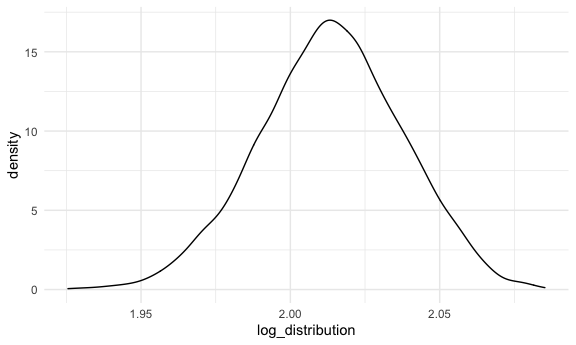
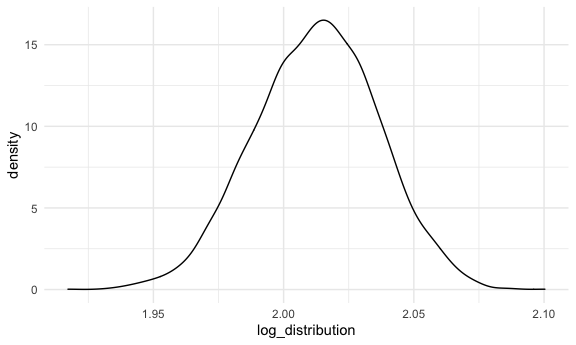
minor adjustments

diff --git a/p8105_hw6_tnn2113.md b/p8105_hw6_tnn2113.md
@@ -122,8 +122,11 @@ bootstrap_df =
   bootstrap(n = 5000)
 ```
 
-Find and plot the distributions of \(\hat{r}^2\) and
-\(log(\hat\beta_0 * \hat\beta_1)\)
+Find and plot the distributions of
+![\\hat{r}^2](https://latex.codecogs.com/png.latex?%5Chat%7Br%7D%5E2
+"\\hat{r}^2") and ![log(\\hat\\beta\_0 \*
+\\hat\\beta\_1)](https://latex.codecogs.com/png.latex?log%28%5Chat%5Cbeta_0%20%2A%20%5Chat%5Cbeta_1%29
+"log(\\hat\\beta_0 * \\hat\\beta_1)")
 
 ``` r
 sample_df = 
@@ -136,7 +139,8 @@ sample_df =
   select(-strap, -models)
 ```
 
-\(\hat{r}^2\) plot
+![\\hat{r}^2](https://latex.codecogs.com/png.latex?%5Chat%7Br%7D%5E2
+"\\hat{r}^2") plot
 
 ``` r
 r_df = 
@@ -150,8 +154,9 @@ r_df %>%
 
 <img src="p8105_hw6_tnn2113_files/figure-gfm/unnamed-chunk-10-1.png" width="90%" />
 
-Based on the plot above, the distribution of \(\hat{r}^2\) is relatively
-normal
+Based on the plot above, the distribution of
+![\\hat{r}^2](https://latex.codecogs.com/png.latex?%5Chat%7Br%7D%5E2
+"\\hat{r}^2") is relatively normal
 
 Identify the 2.5% and 97.5% quantiles
 
@@ -159,18 +164,21 @@ Identify the 2.5% and 97.5% quantiles
 unname(quantile(pull(r_df, r.squared), 0.025))
 ```
 
-    ## [1] 0.8937077
+    ## [1] 0.894194
 
 ``` r
 unname(quantile(pull(r_df, r.squared), 0.975))
 ```
 
-    ## [1] 0.9278163
+    ## [1] 0.9271572
 
 Based on the code chunk above, the 95% confidence interval for
-\(\hat{r}^2\) is (0.893591, 0.927841)
+![\\hat{r}^2](https://latex.codecogs.com/png.latex?%5Chat%7Br%7D%5E2
+"\\hat{r}^2") is (0.893591, 0.927841)
 
-\(log(\hat\beta_0 * \hat\beta_1)\) plot
+![log(\\hat\\beta\_0 \*
+\\hat\\beta\_1)](https://latex.codecogs.com/png.latex?log%28%5Chat%5Cbeta_0%20%2A%20%5Chat%5Cbeta_1%29
+"log(\\hat\\beta_0 * \\hat\\beta_1)") plot
 
 ``` r
 log_df = 
@@ -190,8 +198,9 @@ log_df %>%
 
 <img src="p8105_hw6_tnn2113_files/figure-gfm/unnamed-chunk-12-1.png" width="90%" />
 
-Based on the plot above, the distribution of
-\(log(\hat\beta_0 * \hat\beta_1)\)is also normal.
+Based on the plot above, the distribution of ![log(\\hat\\beta\_0 \*
+\\hat\\beta\_1)](https://latex.codecogs.com/png.latex?log%28%5Chat%5Cbeta_0%20%2A%20%5Chat%5Cbeta_1%29
+"log(\\hat\\beta_0 * \\hat\\beta_1)")is also normal.
 
 Identify the 2.5% and 97.5% quantiles
 
@@ -199,13 +208,15 @@ Identify the 2.5% and 97.5% quantiles
 unname(quantile(pull(log_df, log_distribution), 0.025))
 ```
 
-    ## [1] 1.964834
+    ## [1] 1.965403
 
 ``` r
 unname(quantile(pull(log_df, log_distribution), 0.975))
 ```
 
-    ## [1] 2.058823
+    ## [1] 2.058194
 
 Based on the code chunk above, the 95% confidence interval for
-\(log(\hat\beta_0 * \hat\beta_1)\) is (1.9744, 2.0599)
+![log(\\hat\\beta\_0 \*
+\\hat\\beta\_1)](https://latex.codecogs.com/png.latex?log%28%5Chat%5Cbeta_0%20%2A%20%5Chat%5Cbeta_1%29
+"log(\\hat\\beta_0 * \\hat\\beta_1)") is (1.9744, 2.0599)
